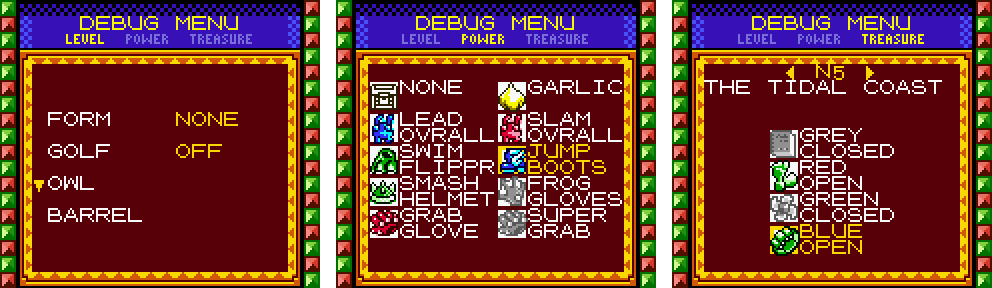
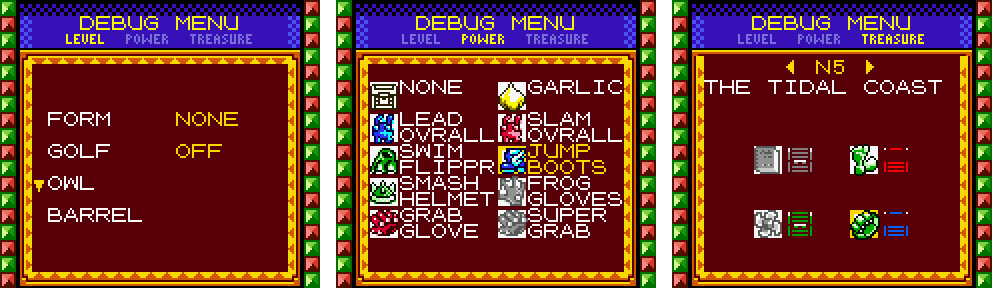
Debug menu: TREASURE's treasures in a 2x2 grid with the pause menu's chests
The four treasures go into a 2x2 grid in reading order (grey red / green
blue), each its icon cell with its chest right of it, open if Wario has
the treasure, instead of its colour and OPEN or CLOSED in text. The
chests are the pause menu's sprites, whose tiles are already in VRAM1
(the menu loads PauseMenuGfx there for the frame), in two of its OB
palettes loaded into 2 and 3. UP/DOWN still pick the treasure, now in
reading order; giving or taking one only rebuilds the sprites. The test
checks the chests' tiles; the README screenshot shows the new page.
Steep Canyon goldens: DIV drift.

Claude-Session: https://claude.ai/code/session_01TdDZPqi6aJW1qyoXn2Pqw6

Changed region(s): [[0.75, 0.4375, 0.9375, 0.9062], [0.6875, 0.1875, 0.9688, 0.2812]]

diff --git a/tools/debug_menu_bgmap.py b/tools/debug_menu_bgmap.py
@@ -36,8 +36,8 @@ current page's version of them, one row of debug_menu_pages.png.
 The POWER page lists the ten power-up levels in two columns of five: an
 icon cell (2x2) and a two-line name, white, or yellow when selected
 (debug_menu.asm redraws the selection). The TREASURE page has a level
-(code and name, drawn by debug_menu.asm) and its four treasures in a
-column, each a cell and two lines: its colour and OPEN or CLOSED.
+(code and name, drawn by debug_menu.asm) and its four treasures in a 2x2
+grid, each a cell with its chest (a sprite) right of it.
 
 The TREASURE page's frame has a plain top edge, without the yellow band and
 its orange triangles, and its level code (◀ N1 ▶) is drawn 2-3 pixels
@@ -99,11 +99,12 @@ POWER_NAMES = [
 # TREASURE, shared with debug_menu.asm (DEBUG_TREASURE_*): the level code
 # between ◀ ▶ (centred, the arrows always shown: LEFT/RIGHT change the
 # level), its name on the two rows below (debug_menu.asm centres each line),
-# a blank row, and the four treasures, a cell and two lines each
+# and the four treasures in a 2x2 grid (grey red / green blue), each an icon
+# cell with its chest right of it (a sprite, debug_menu.asm)
 TREASURE_CODE_ROW, TREASURE_CODE_COL = 4, 9
 TREASURE_NAME_ROW = 5
-TREASURE_TOP_ROW, TREASURE_ICON_COL = 8, 6
-TREASURE_COLOURS = ["GREY", "RED", "GREEN", "BLUE"]
+TREASURE_GRID_ROW, TREASURE_GRID_COL = 9, 5  # the top left cell
+TREASURE_GRID_DROW, TREASURE_GRID_DCOL = 4, 6
 
 # TREASURE's top edge and level code (debug_menu_code.png), font tiles from
 # CODE_TILE on (over the font's "o", "p"..., unused by the menu), in the
@@ -372,6 +373,8 @@ for col, tile in [
 ]:
     put(TREASURE_CODE_ROW - 1, col, (tile, PAL_FRAME))
     put(TREASURE_CODE_ROW, col, (tile + 1, PAL_FRAME))
-for i, colour in enumerate(TREASURE_COLOURS):
-    cell(TREASURE_TOP_ROW + i * 2, TREASURE_ICON_COL, (colour, ""))
+for i in range(4):
+    row = TREASURE_GRID_ROW + i // 2 * TREASURE_GRID_DROW
+    col = TREASURE_GRID_COL + i % 2 * TREASURE_GRID_DCOL
+    cell(row, col, ())
 save("debug_treasure")

diff --git a/tests/test_debug_menu.py b/tests/test_debug_menu.py
@@ -231,6 +231,11 @@ def test_debug_menu_treasure(game, golden):
     game.menu_press("a")
     assert game.num_collected_treasures() == 2
     golden("debug_treasure_n5_mixed", game.screenshot())
+    # The chests (sprites 8-15, two each, after the icons'): open for the two
+    # owned, red and blue; grey and green closed.
+    oam = game.addr("wVirtualOAM")
+    chest_tiles = [game.pb.memory[oam + (8 + 2 * i) * 4 + 2] for i in range(4)]
+    assert chest_tiles == [0xD6, 0xDC, 0xD6, 0xDC]
 
     # LEFT from N1 wraps to E7, keeping the colour.
     game.menu_press("left", 5)

diff --git a/tests/test_debug_menu_pages.py b/tests/test_debug_menu_pages.py
@@ -38,7 +38,6 @@ VRAM_WRITERS = [
     "DebugMenu_DrawCell",
     "DebugMenu_DrawTreasureCell",
     "DebugMenu_DrawLevel",
-    "DebugMenu_DrawTreasureStatus",
     "ApplyTempPals2ToOBPals",
     "DebugMenu_EndVRAMWrite",  # the end of each write
 ]

diff --git a/book/src/debug-menu.md b/book/src/debug-menu.md
@@ -298,7 +298,7 @@ in its V-Blank:
 | copy, tiles | 14 rows × 20 bytes, unrolled (`ld a, [hli]`, `ld [de], a`, `inc e`: 5 M-cycles a byte) | about 3100 dots |
 | copy, attributes | the same, and `rWY`, `rWX`, `rLCDC` | about 3100 dots |
 | map | GDMA, 2 × 36 blocks of 16 bytes; GDMA takes 32 dots a block in either speed | about 2300 dots |
-| values | LEVEL's in two V-Blanks (as before); a POWER cell; TREASURE's code and name, then its statuses and cell | under 2000 dots each |
+| values | LEVEL's in two V-Blanks (as before); a POWER cell; TREASURE's code and name, then its cell | under 2000 dots each |
 | OB palettes | 64 bytes (`ApplyTempPals2ToOBPals`) | about 1000 dots |
 | TREASURE tiles | 4 V-Blanks, a treasure (64 bytes) each, as for a level change | |
 | show | GDMA, 12 blocks (the indicator), OAM DMA, `rLCDC` | about 1100 dots |
@@ -353,29 +353,34 @@ in most rooms. Why:
 The TREASURE page gives or takes any level's treasure. It shows a level, its
 code between ◀ ▶ and its name on the two rows below (centred, split in two
 where it's too long, e.g. THE VOLCANO'S / BASE), and the level's four
-treasures in a column, grey, red, green and blue: each its icon in an icon
-cell like the POWER page's, its colour and OPEN or CLOSED, like the chest. The
-icons are in the treasure's own colours when Wario has it, in grey when he
-doesn't.
+treasures in a 2x2 grid, in reading order: grey and red, then green and blue.
+Each is its icon in an icon cell like the POWER page's, with its chest to the
+right, open if Wario has the treasure and closed if not, as in the pause
+menu. The icons are in the treasure's own colours when Wario has it, in grey
+when he doesn't.
 
 ```text
         ◀ N5 ▶
    THE TIDAL COAST
 
-      [icon] GREY
-             CLOSED
-      [icon] RED
-             OPEN
-      [icon] GREEN
-             CLOSED
-      [icon] BLUE
-             OPEN
+   [icon][grey]   [icon][red]
+
+   [icon][green]  [icon][blue]
 ```
+
+The chests are the pause menu's own sprites (16x16, a tile and its mirror
+image, `DEBUG_CHEST_TILE`). Their tiles are already in VRAM1, where the menu
+loads `PauseMenuGfx` for the frame, so they cost no VRAM: grey and green are
+the same tiles, and red and blue, in two of the pause menu's OB palettes
+(`PauseMenuOBPals`), which `DebugMenu_LoadTreasurePals` loads into OB palettes
+2 and 3 (`DEBUG_CHEST_PAL_*`; 0 and 1 are Wario's, put back when the menu
+closes). The page's 16 sprites, the icons' 8 and the chests' 8, are at most 8
+on a line, under the hardware's 10.
 
 | Button | Effect |
 |---|---|
 | LEFT/RIGHT | the previous or next level, wrapping (E7 and N1), on the same colour |
-| UP/DOWN | the treasure (no wrapping) |
+| UP/DOWN | the treasure, in reading order (no wrapping) |
 | A | gives or takes the selected treasure (`DebugMenu_ToggleTreasure`) |
 
 The page starts on the current level's grey treasure (N1's in The Temple and
@@ -387,7 +392,8 @@ take effect the next time Wario enters a level from the map, because
 
 The level names are in `src/engine/debug_menu/treasure_page.asm` (`DebugLevelNames`), each line with
 its column and length worked out by a macro. Changing the level redraws the
-code and the name in one V-Blank and the four statuses in the next.
+code and the name in one V-Blank. Giving or taking a treasure only rebuilds
+the sprites (`DebugMenu_BuildTreasureOAM`): the icon's palette and the chest.
 
 ### The level code's padding
 

diff --git a/README.md b/README.md
@@ -16,7 +16,7 @@ LEVEL (UP/DOWN to pick a row):
 
 POWER: the ten power-up levels, NONE and the nine power-ups, each with its treasure's graphics and colours, the ones Wario has in colour and the others in grey. Pick one with the D-pad and press A to get it and every power-up before it.
 
-TREASURE: a level (code and name, e.g. `N5 THE TIDAL COAST`) and its four treasures, grey, red, green and blue, each with its icon (in colour if Wario has it, grey if not) and OPEN or CLOSED, like the chest. LEFT/RIGHT change the level, UP/DOWN pick a treasure, A gives it to Wario or takes it back. It starts on the current level. Treasures that open new paths (like N5's Foot of Stone opening a secret door in S4) take effect the next time you enter a level from the map, as in the real game.
+TREASURE: a level (code and name, e.g. `N5 THE TIDAL COAST`) and its four treasures in a 2x2 grid, grey and red, then green and blue, each with its icon (in colour if Wario has it, grey if not) and its chest from the pause menu, open or closed. LEFT/RIGHT change the level, UP/DOWN pick a treasure in reading order, A gives it to Wario or takes it back. It starts on the current level. Treasures that open new paths (like N5's Foot of Stone opening a secret door in S4) take effect the next time you enter a level from the map, as in the real game.
 
 The menu plays the pause menu's music. How it works is in the [book](https://lautarodragan.github.io/warioland3/debug-menu.html).
 

diff --git a/book/src/history.md b/book/src/history.md
@@ -80,6 +80,11 @@ and its four treasures with their icons, replacing the TREASURE row), with a
 page indicator in a small font under the title. B or SELECT closes the menu
 from any page. See [The debug menu](debug-menu.md).
 
+Later, the TREASURE page's level code got padding (a plain top edge, and the
+code drawn a few pixels higher than the font's rows), and its treasures went
+into a 2x2 grid, each with the pause menu's chest, open or closed, instead of
+its colour and OPEN or CLOSED in text.
+
 ## Page switches without the white flash
 
 Tried on a Game Boy Color, switching pages flashed white: the switch turned
